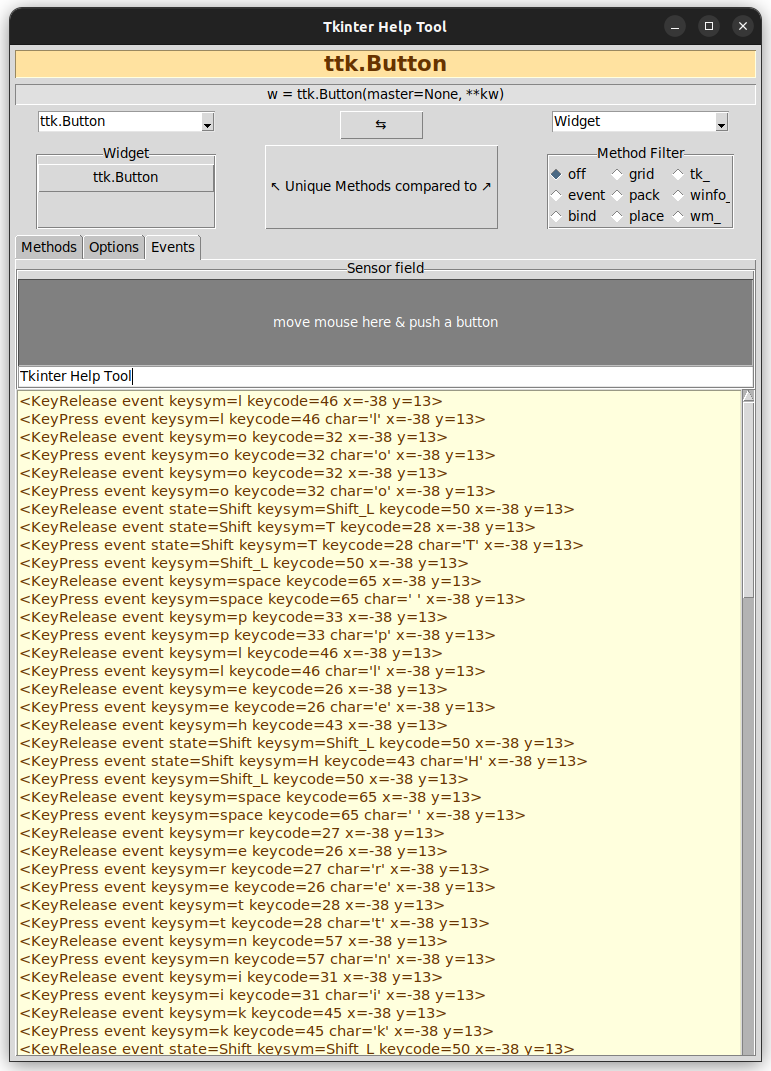
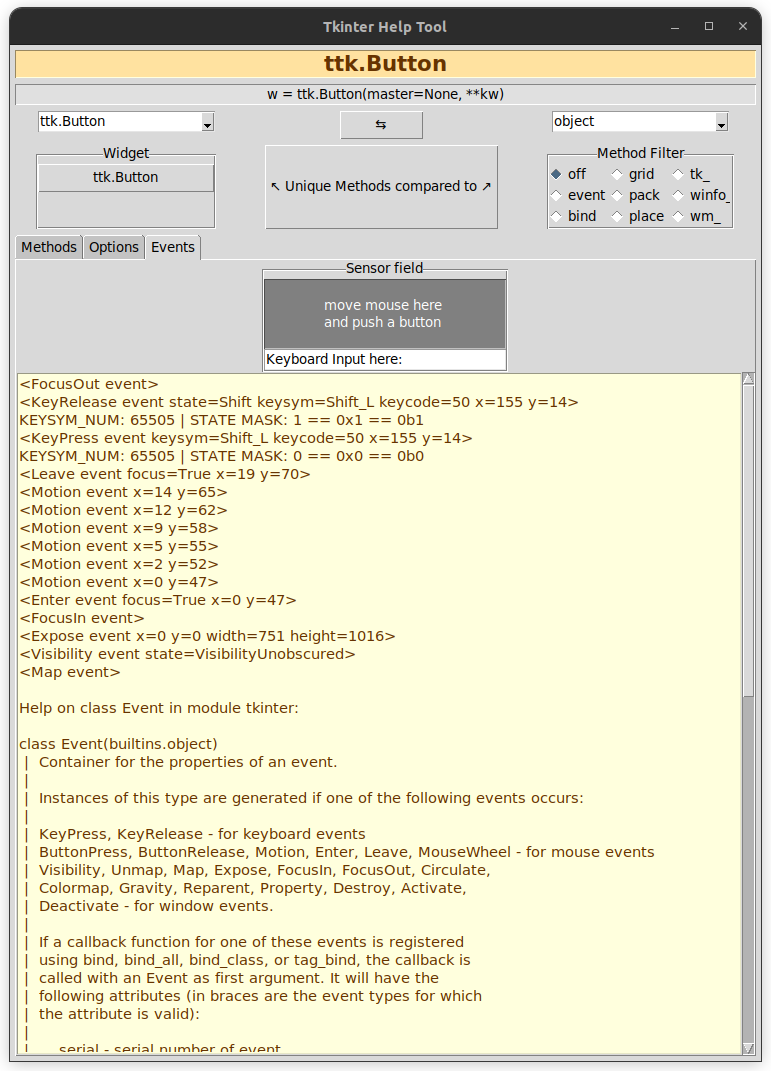
20230509-2030 tkinter_help_tool v0.0.2
Starting generate_events from here...

Changed region(s): [[0.0, 0.0308, 0.9961, 1.0], [0.4358, 0.0, 0.5914, 0.0308], [0.716, 0.0924, 0.7782, 0.1232]]

diff --git a/tkinter_help_tool.py b/tkinter_help_tool.py
@@ -21,6 +21,7 @@ from tkinter import ttk, font
 from tkinter.scrolledtext import ScrolledText
 
 from hints import options
+from keysyms import keysyms
 
 
 def filter_list(_list=None, pattern=None):
@@ -291,6 +292,8 @@ class Application(Frame):
 		                   '<Destroy>', '<Activate>', '<Deactivate>']:
 			self.bind(event_type, self.log_event)
 
+		# self.generate_events()
+
 	def get_widget1(self):
 
 		if self.cbox1_var.get() in {'Tk', 'Menu', 'Misc', 'Pack', 'Place',
@@ -453,14 +456,23 @@ class Application(Frame):
 
 	def log_event(self, event):
 		self.events_text.configure(state=NORMAL)
-		if type(event.keycode) is int:
+		if (type(event.keycode) is int) and (event.keycode not in {8}):
 			self.events_text.insert(0.1,
-			                        f"KEYSYM_NUM: {event.keysym_num} | STATE MASK: {event.state} == {hex(event.state)} == {bin(event.state)}\n")
+			                        f"|  STATE MASK: {event.state} == "
+			                        f"{hex(event.state)} == "
+			                        f"{bin(event.state)}  "
+			                        f"|  KEYSYM_NUM: {event.keysym_num}\n"
+			                        f"{120 * '-'}\n")
 		self.events_text.insert(0.1, f"{event}\n")
-
-		# for attr in event.__dict__.items():
-		# 	self.events_text.insert(0.1, f"{attr}\n")
 		self.events_text.configure(state=DISABLED)
+
+	# def generate_events(self):
+	# 	for keysym in keysyms:
+	# 		try:
+	# 			self.event_generate("<KeyPress>", keysym=keysym)
+	# 		except TclError as err:
+	# 			print(err)
+
 
 app = Application()
 app.master.title('Tkinter Help Tool')
